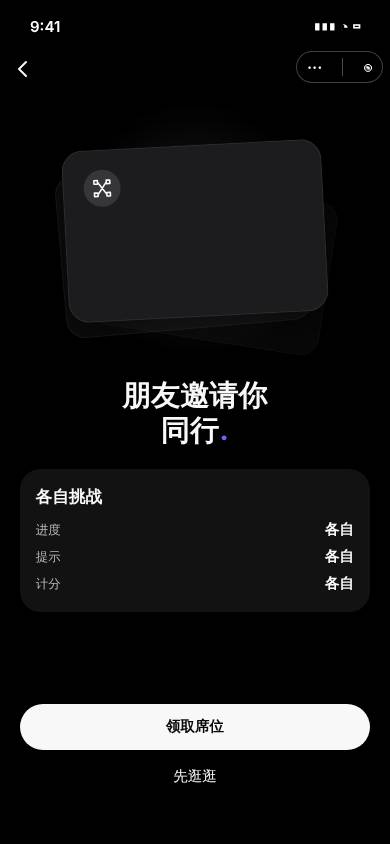
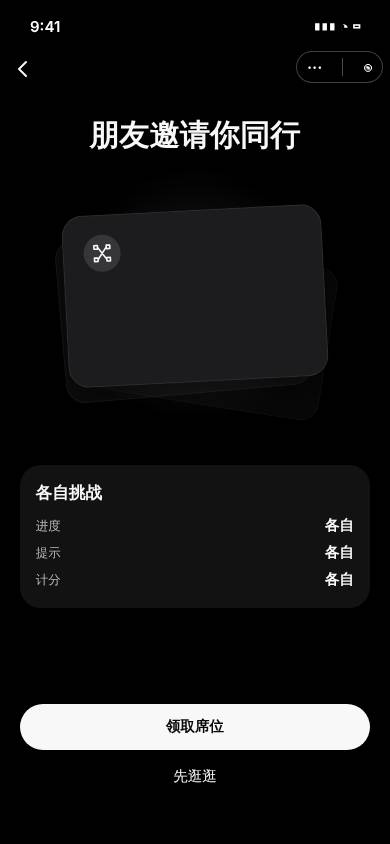
docs: qx-u2 合入 staging 后在 07ce40be 上重拍 P1/P4/P7 前后截图
Claude-Session: https://claude.ai/code/session_01SUD7bPnLkSramv4Ea5rN89

diff --git a/docs/delivery/questo-ui-20261109/qx-u2/RESULT.md b/docs/delivery/questo-ui-20261109/qx-u2/RESULT.md
@@ -42,4 +42,6 @@ Ref 1 was applied only to the screens LANES.md names. Everything else on those p
 - Fixture: qx-s0's `staging/rig/free_orient_theme.py` (topic 990014, a free self-play pass for 9004, run 1 in progress). `rig/probe.py` reads the real choices and report and issues the referral token. `rig/team_mode.py` is the P4 attempt above, and it was reverted.
 - Shots are 390 × 844 JPEG q70.
 
+- **Re-shot after the staging merge (2026-11-10 07:5x UTC).** The rig was rebuilt on staging `07ce40be` (fresh DB, same fixture, topic 990014 again, new referral token). `P1-*`, `P4-*` and `P7-*` before shots are the staging bundle and after shots this branch's merged tree; the W2-16 shots are from the first run (that page is untouched by the merge).
+
 STATUS: PARTIAL - P4 multi-mode pager (server only offers SHARED_TEAM on club activity sessions) and P7 scored/finished state (fixture run unscored, in progress) are not shot; 4 owner defaults listed under needs owner
